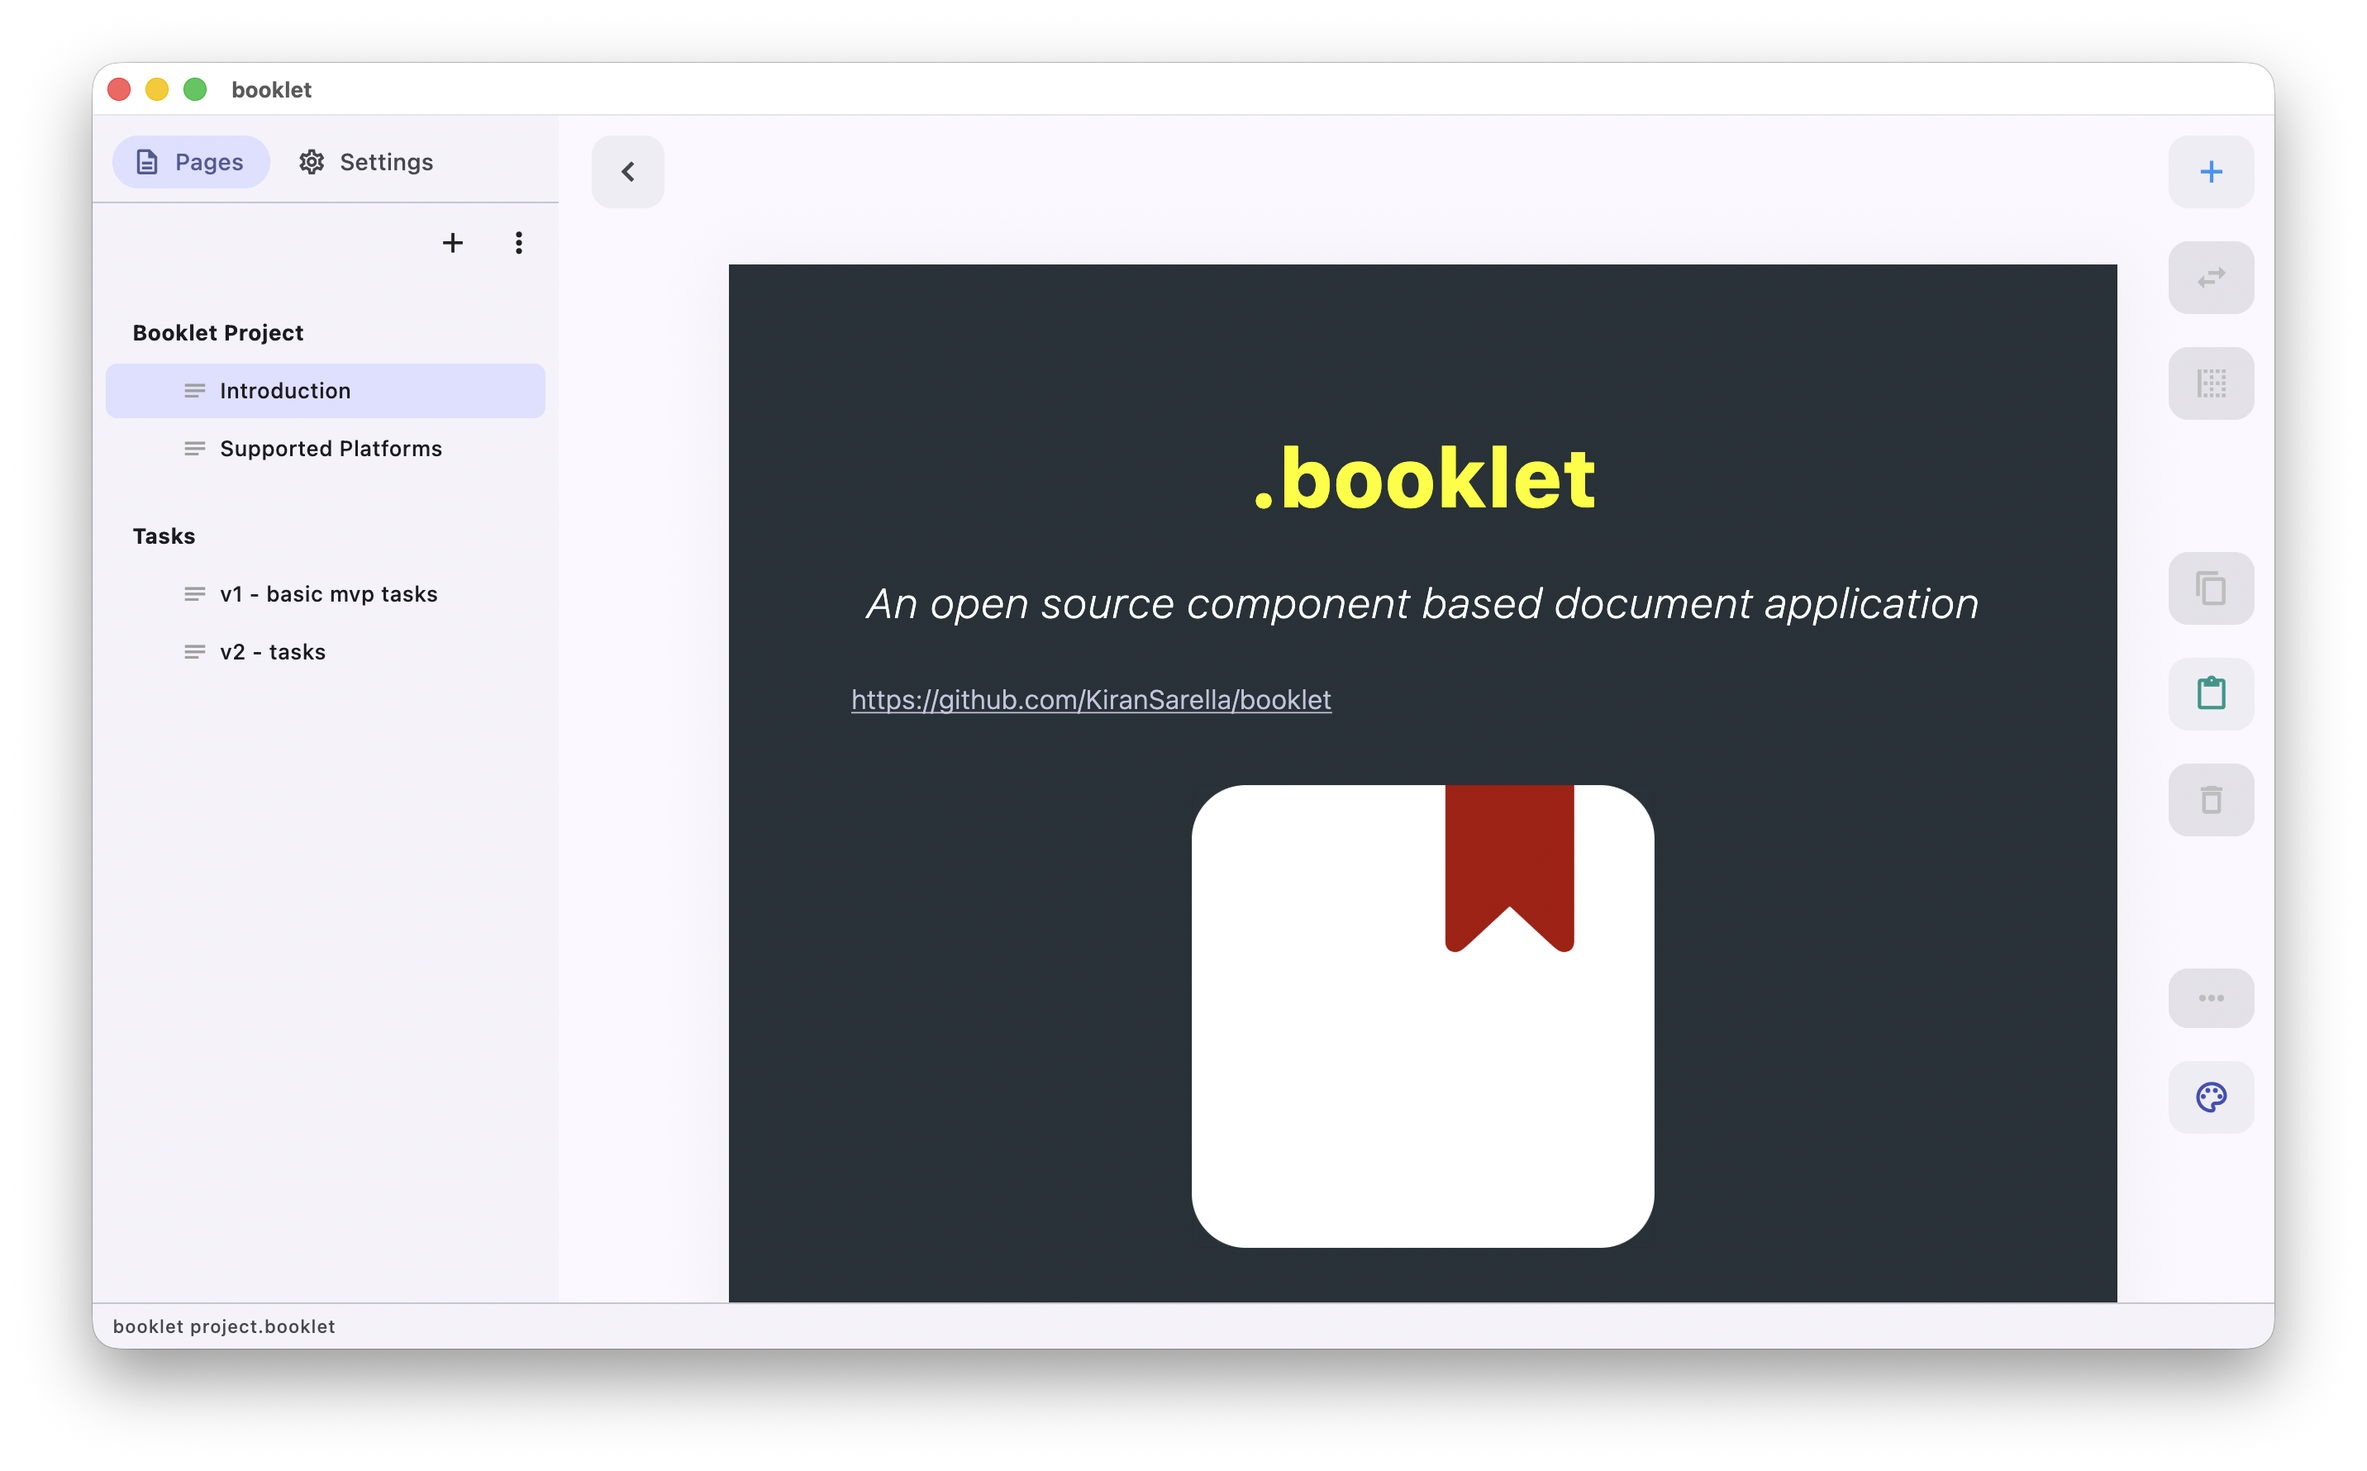
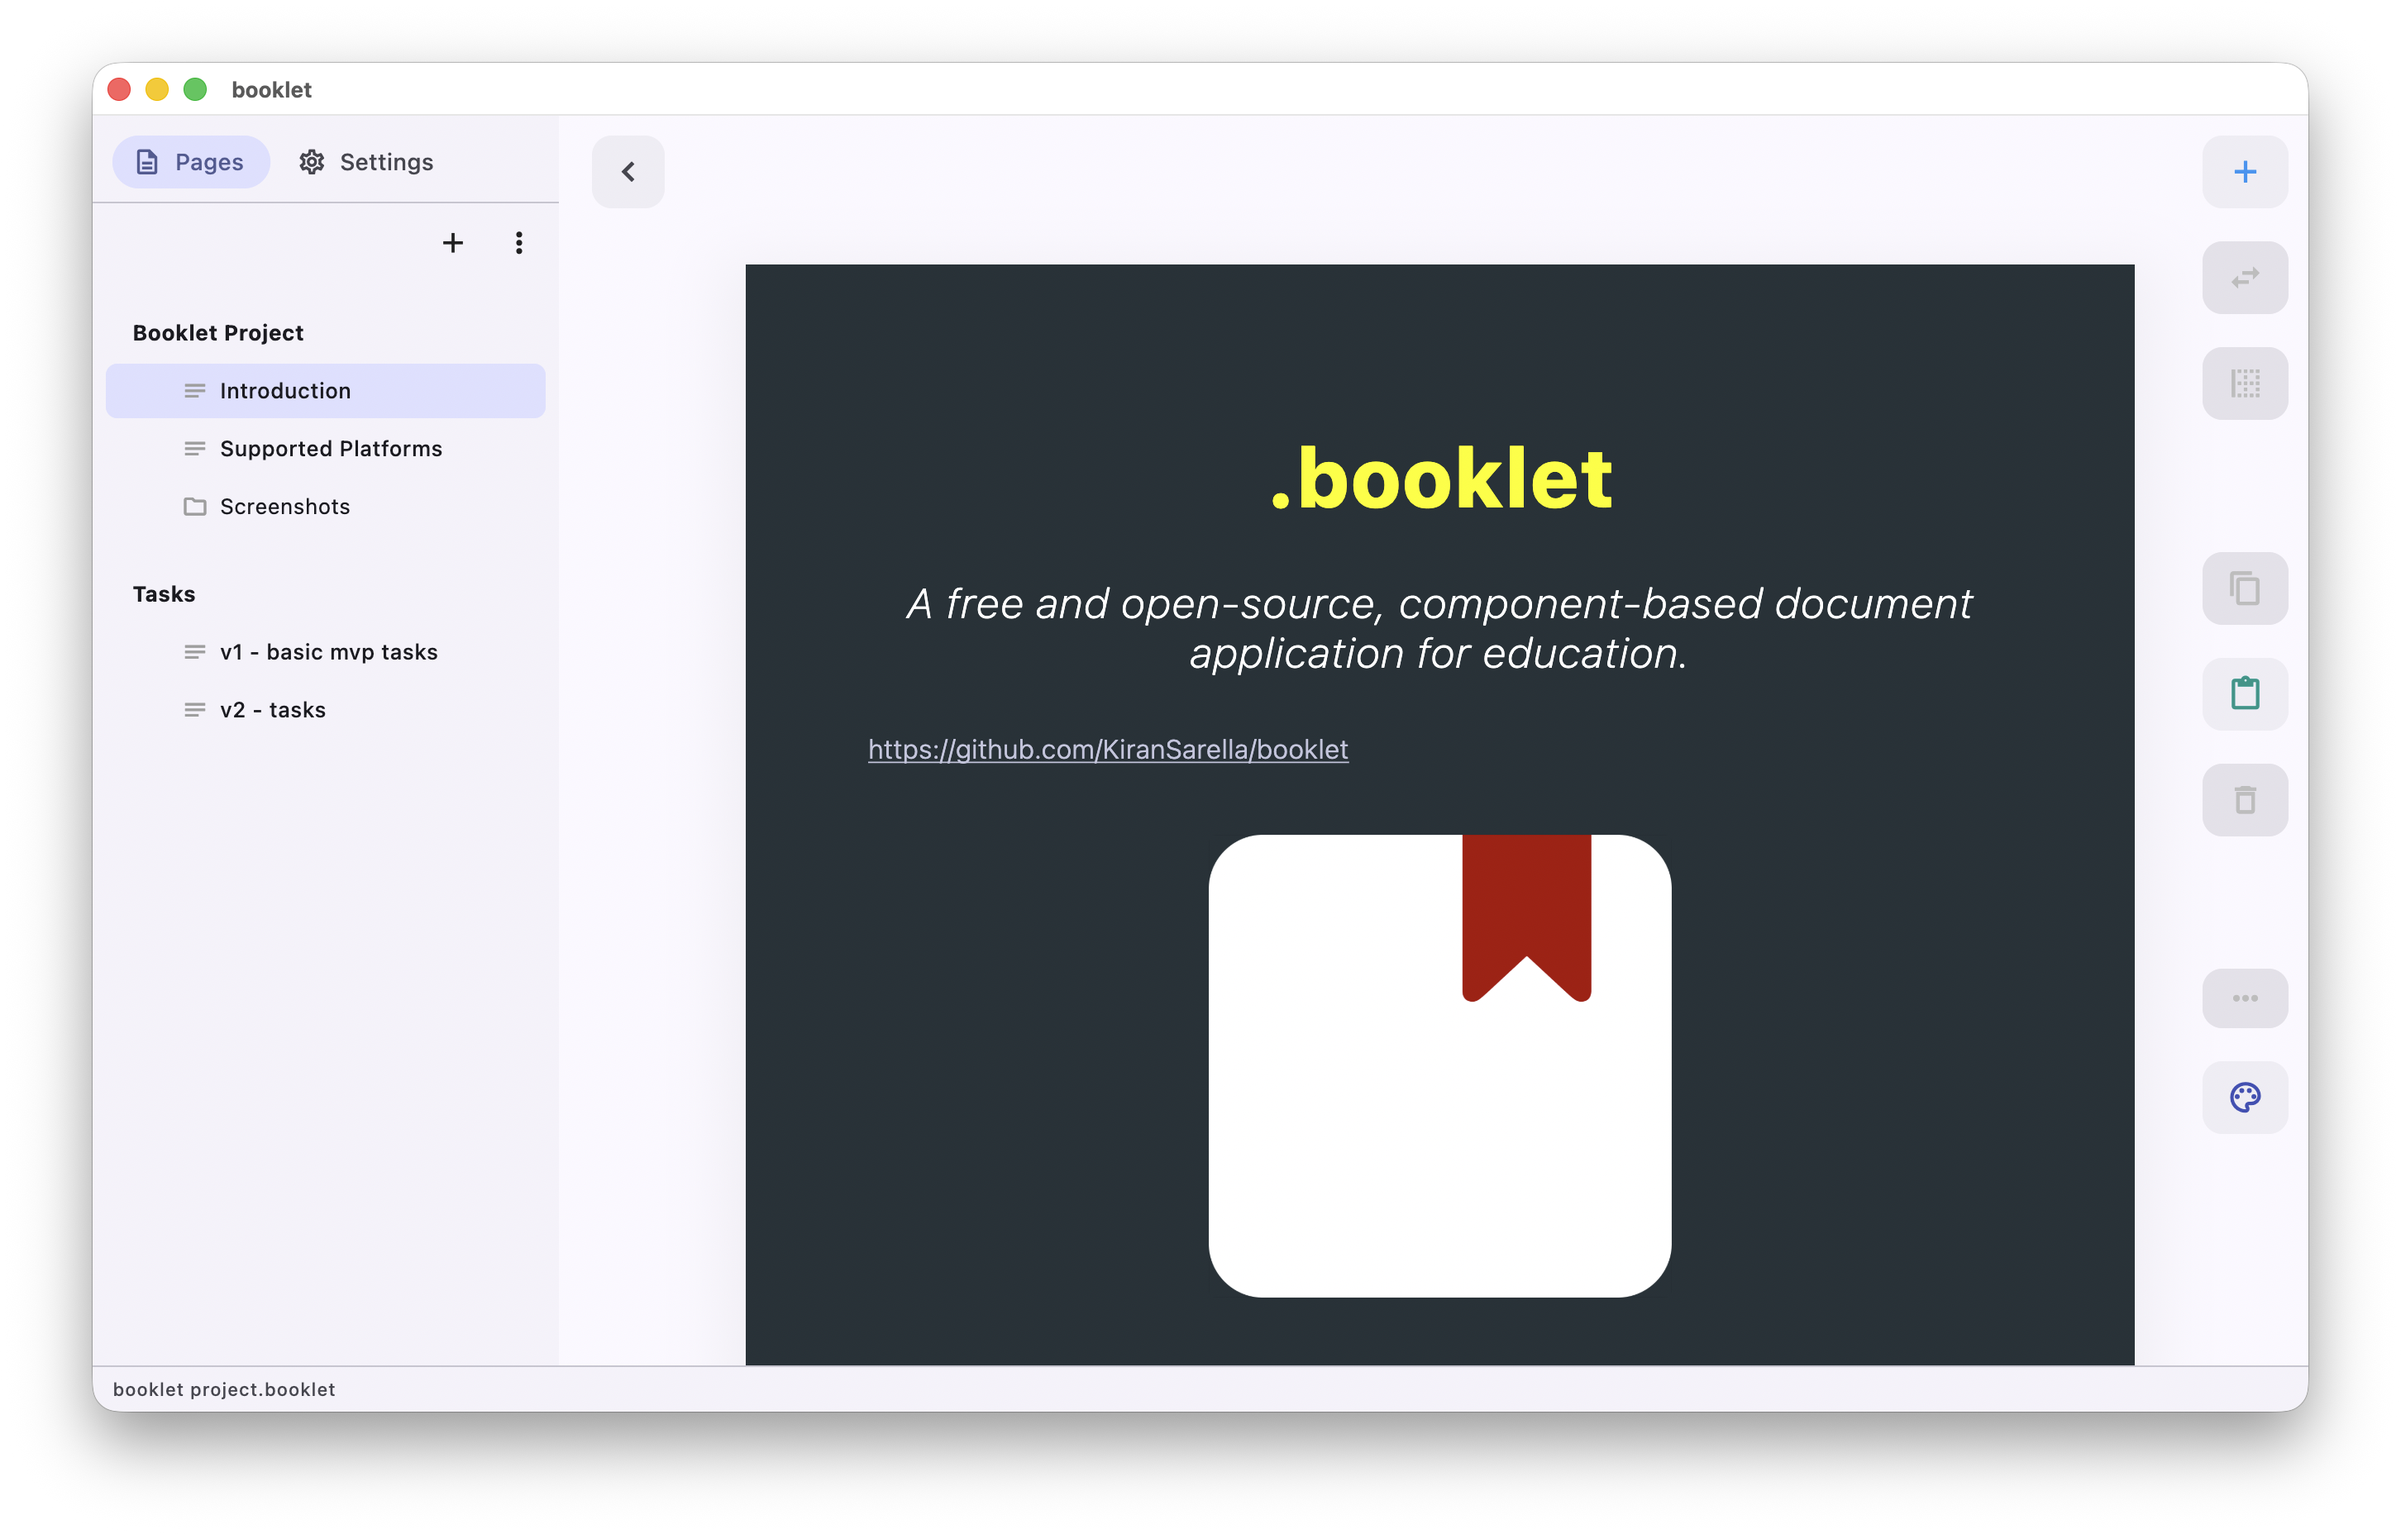
readme updated

diff --git a/README.md b/README.md
@@ -1,6 +1,6 @@
 # .booklet
 
-A component based document application. 
+A free and open-source, component-based document application for education.
 
 # Supported Platforms
 Used flutter to make it platform independent.
